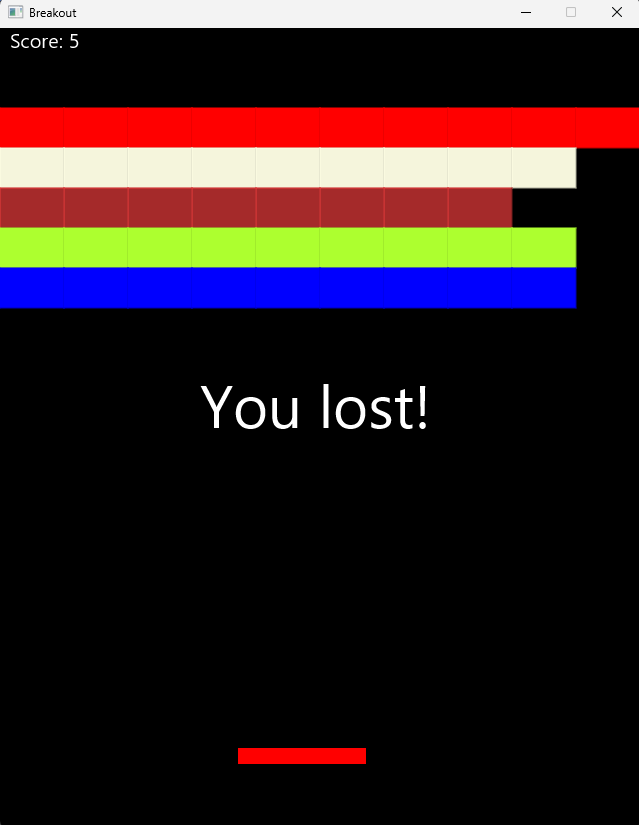
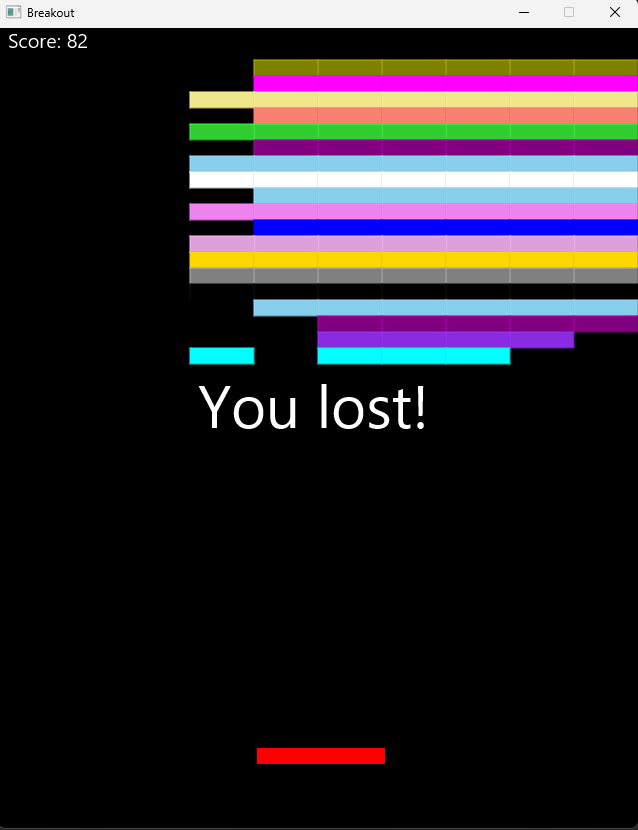
Done

diff --git a/Code/src/main/java/game/breakout/GameCanvas.java b/Code/src/main/java/game/breakout/GameCanvas.java
@@ -7,6 +7,7 @@ import javafx.scene.paint.Color;
 import javafx.geometry.Point2D;
 import java.util.ArrayList;
 import javafx.scene.Scene;
+import java.util.Random;
 import java.util.List;
 
 
@@ -228,16 +229,25 @@ public class GameCanvas extends Canvas {
     public void loadLevel() {
         // Set bricks to new ArrayList
         bricks = new ArrayList<>();
+        // Set grid for rows and columns
+        Brick.setGridRowsAndColumns(50,10);
         // Create colors array
-        Color[] colors = new Color[]{Color.RED, Color.BEIGE, Color.BROWN, Color.GREENYELLOW, Color.BLUE};
-        // Set grid rows and columns
-        Brick.setGridRowsAndColumns(20,10);
+        Color[] colors = new Color[] {
+                Color.BLUE, Color.GREEN, Color.YELLOW, Color.PURPLE, Color.PINK,
+                Color.ORANGE, Color.BROWN, Color.BLACK, Color.WHITE, Color.GRAY,
+                Color.GOLD, Color.SILVER, Color.BLUE, Color.SKYBLUE, Color.LIMEGREEN,
+                Color.TEAL, Color.INDIGO, Color.MAGENTA, Color.VIOLET, Color.KHAKI,
+                Color.SALMON, Color.CRIMSON, Color.LAVENDER, Color.PLUM, Color.BLUEVIOLET,
+                Color.OLIVE, Color.CYAN, Color.MAROON, Color.BEIGE
+        };
         // For each row
-        for(int i = 0; i < 5; i++) {
+        for(int i = 0; i < 20; i++) {
+            // Create colorIndex variable and set it to random number in range of colors array length
+            int colorIndex = (int) ((Math.random() * (colors.length - 1)));
             // For each column
             for(int j = 0; j < Brick.getGridColumns(); j++)
                 // Add new Brick object to bricks
-                bricks.add(new Brick(j, i + 2, colors[i]));
+                bricks.add(new Brick(j, i + 2, colors[colorIndex]));
         }
     }
 }
